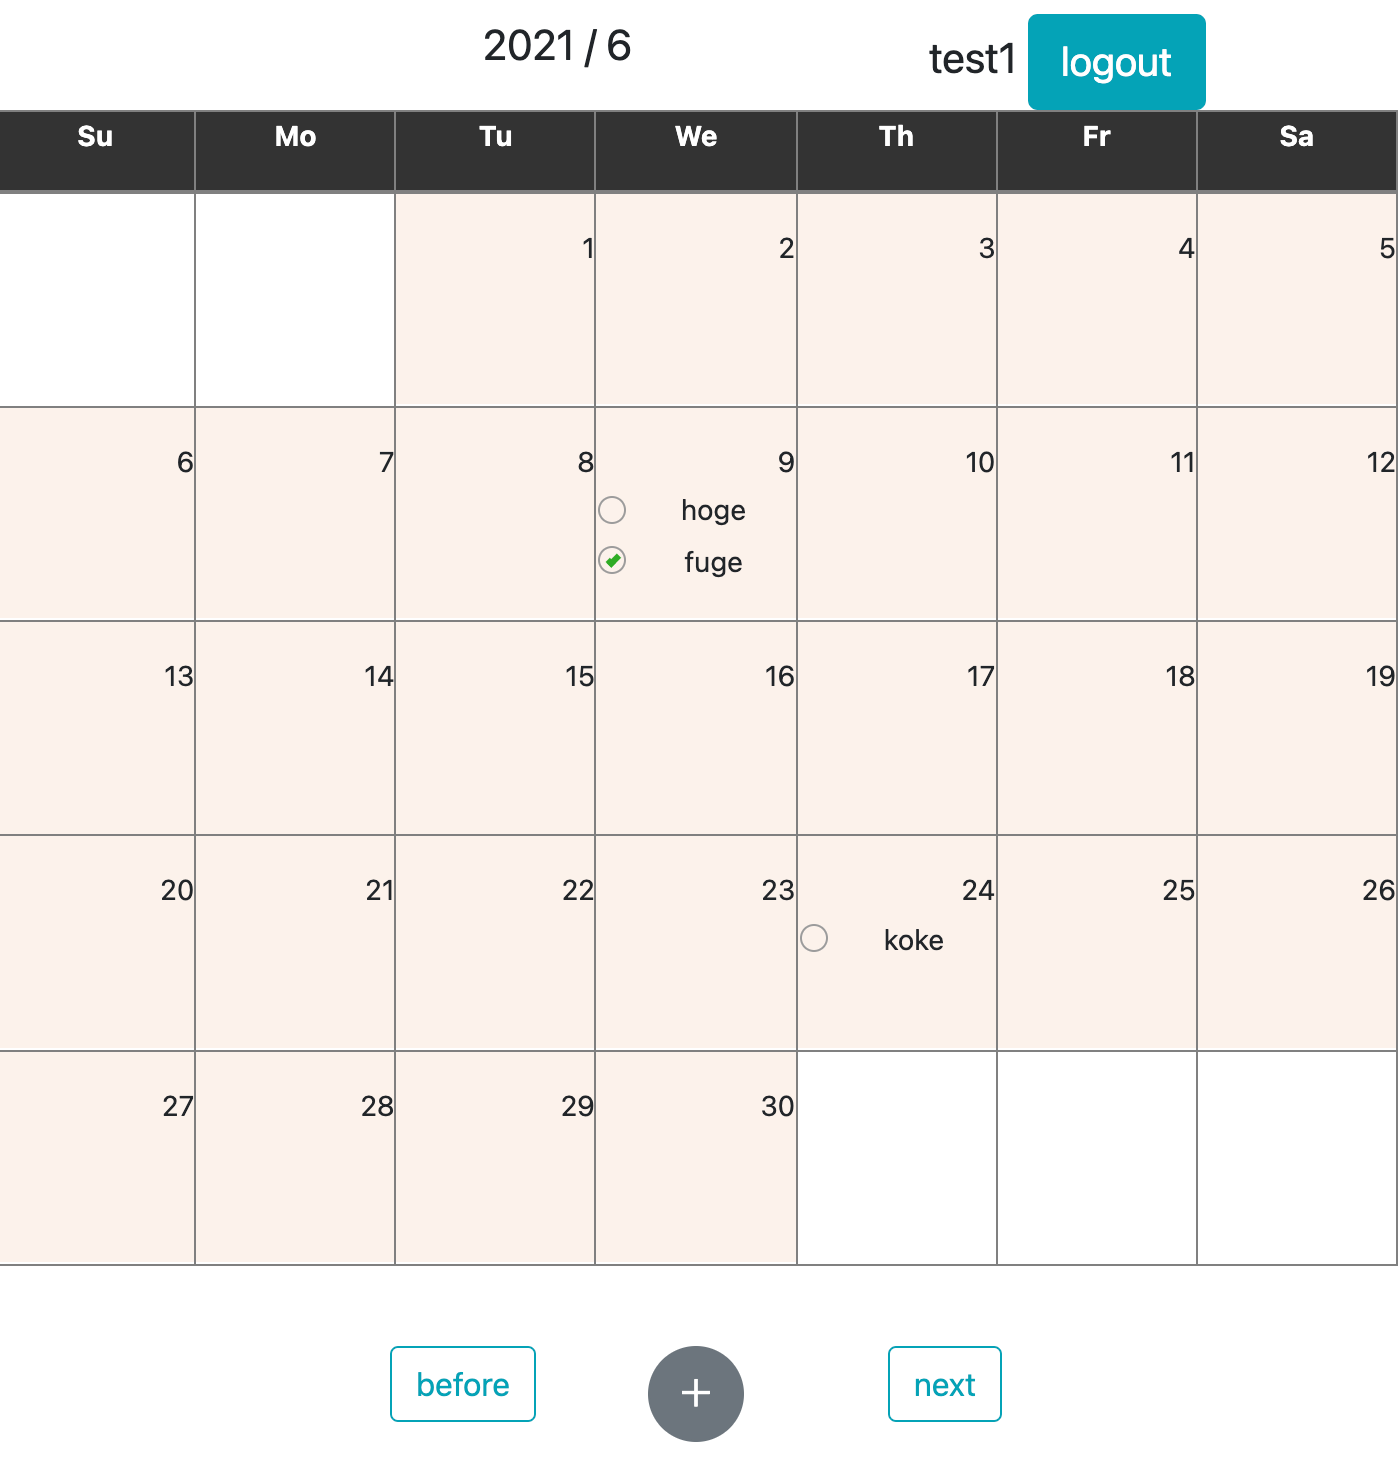
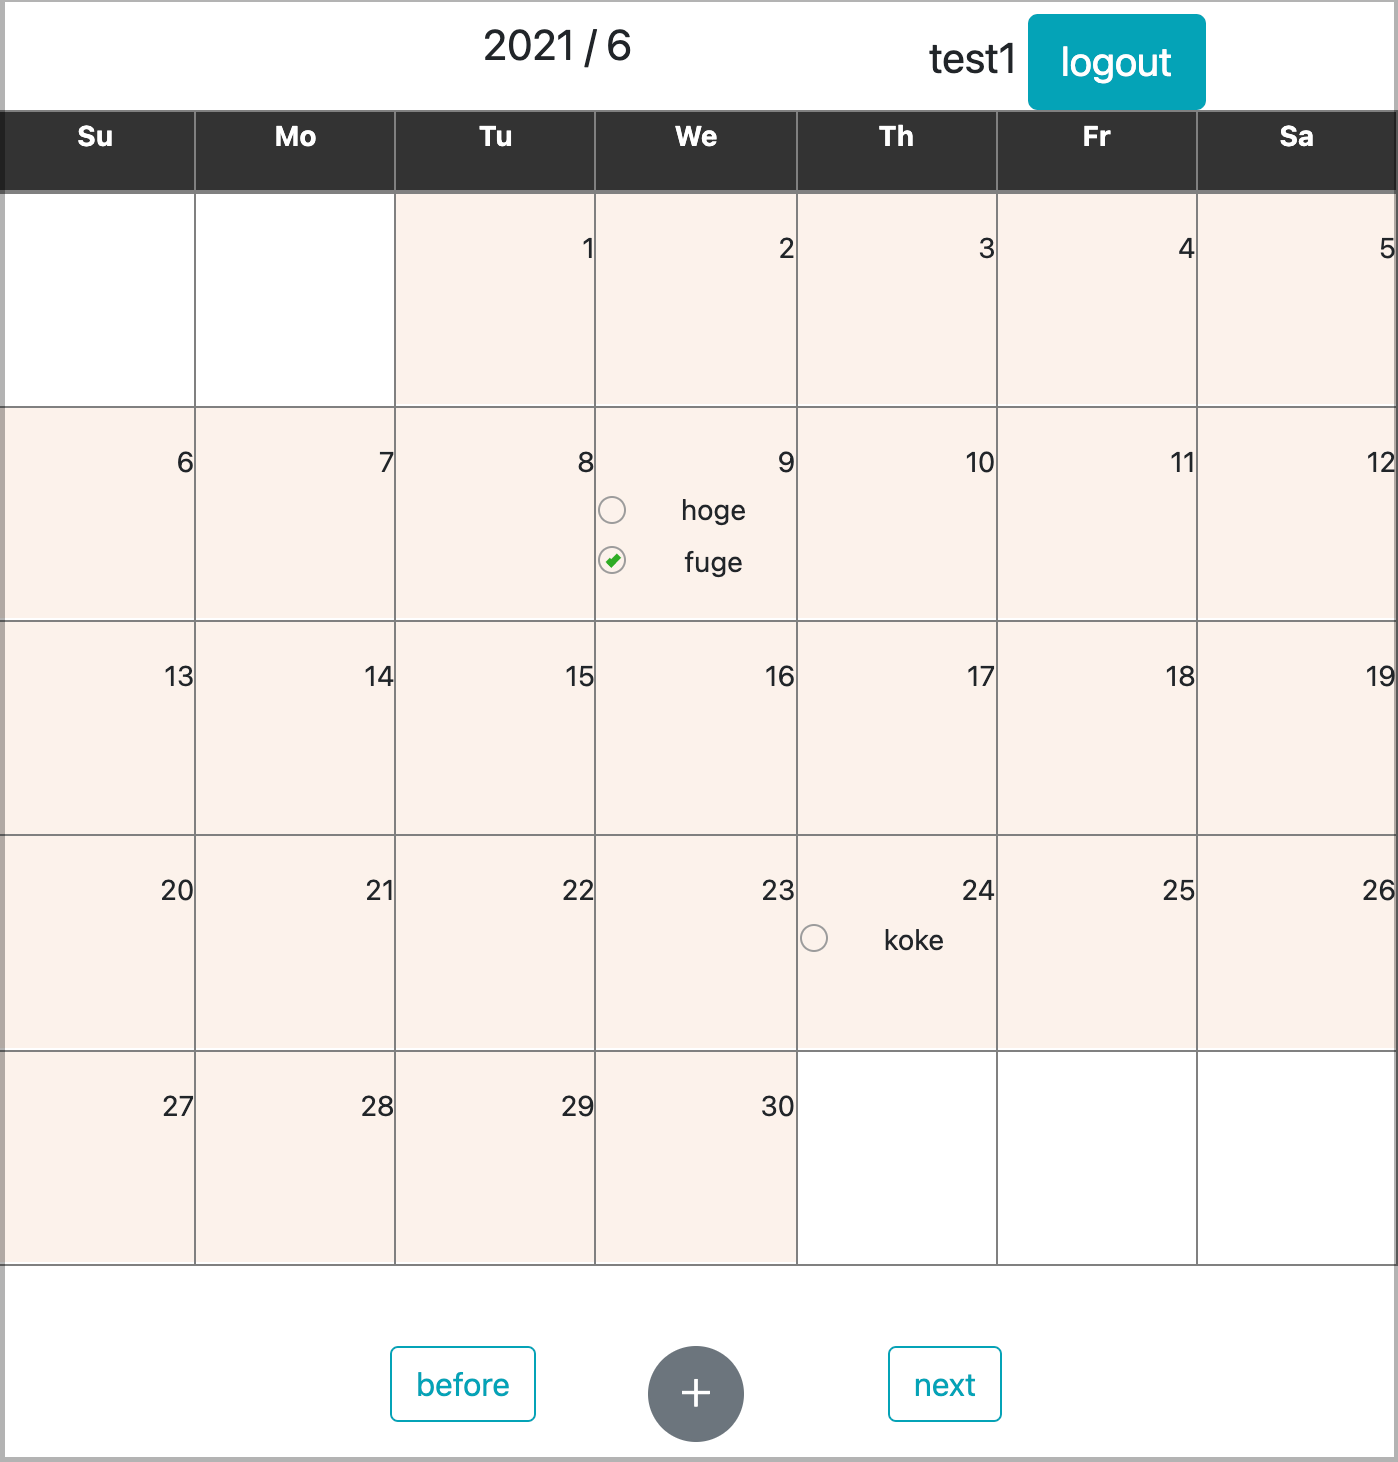
[update]画像の変更 画像に縁を追加

Changed region(s): [[0.0, 0.1231, 1.0, 1.0], [0.9843, 0.0, 1.0, 0.0923], [0.0, 0.0, 0.0308, 0.0616]]

diff --git a/index.html b/index.html
@@ -52,7 +52,7 @@
                 </div>
             </div>
             <!-- /main-visual -->
-            <hr>
+
             <!-- works -->
             <section class="works section" id="works">
                 <div class="inner">
@@ -87,7 +87,7 @@
                 </div>
             </section>
             <!-- /works -->
-            <hr>
+
             <!-- skill -->
             <section class="skill section" id="skill">
                 <div class="inner">
@@ -145,7 +145,7 @@
                 </div>
             </section>
             <!-- /skill -->
-            <hr>
+
             <!-- about -->
             <section class="about section" id="about">
                 <div class="inner">
